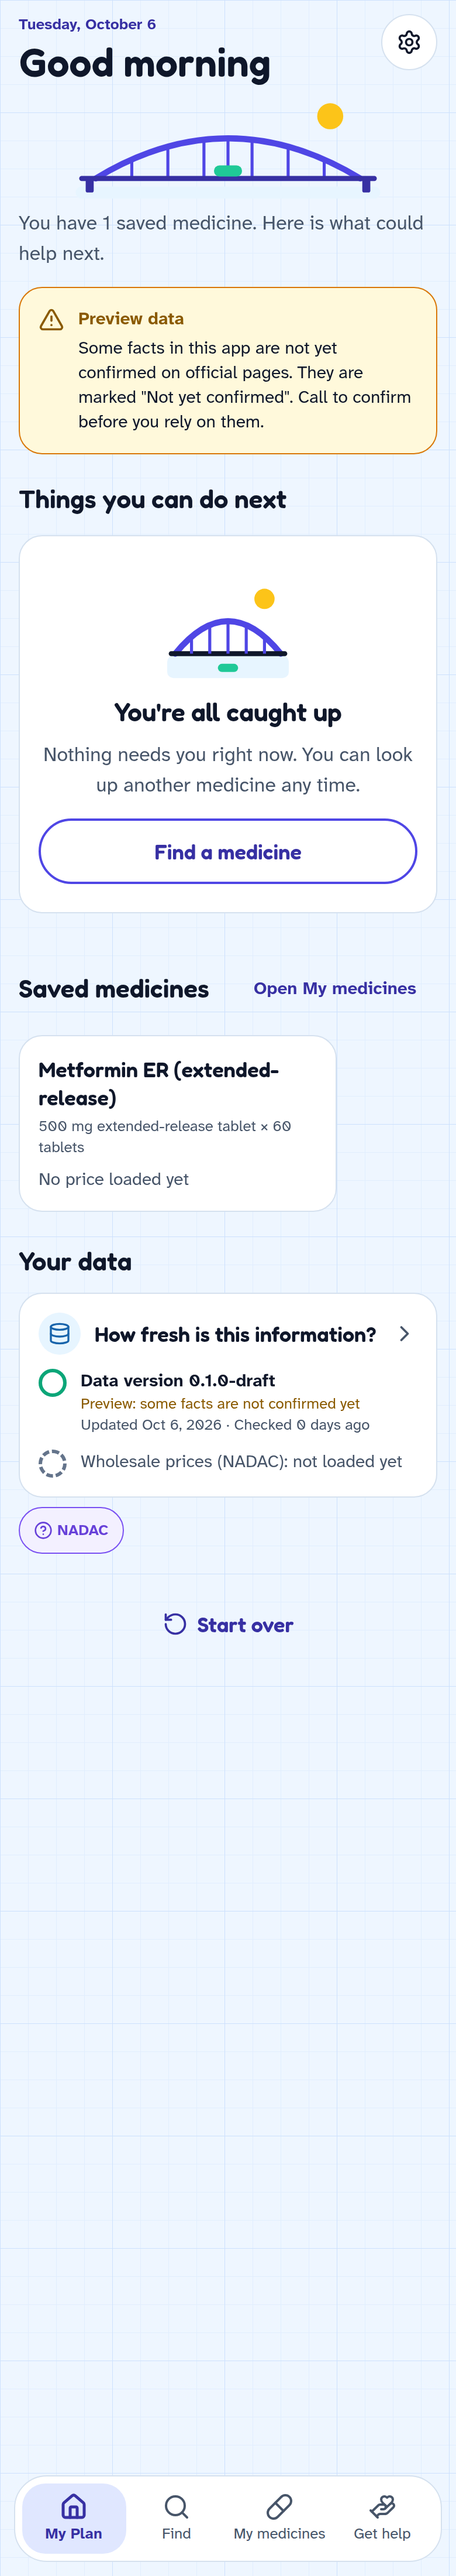
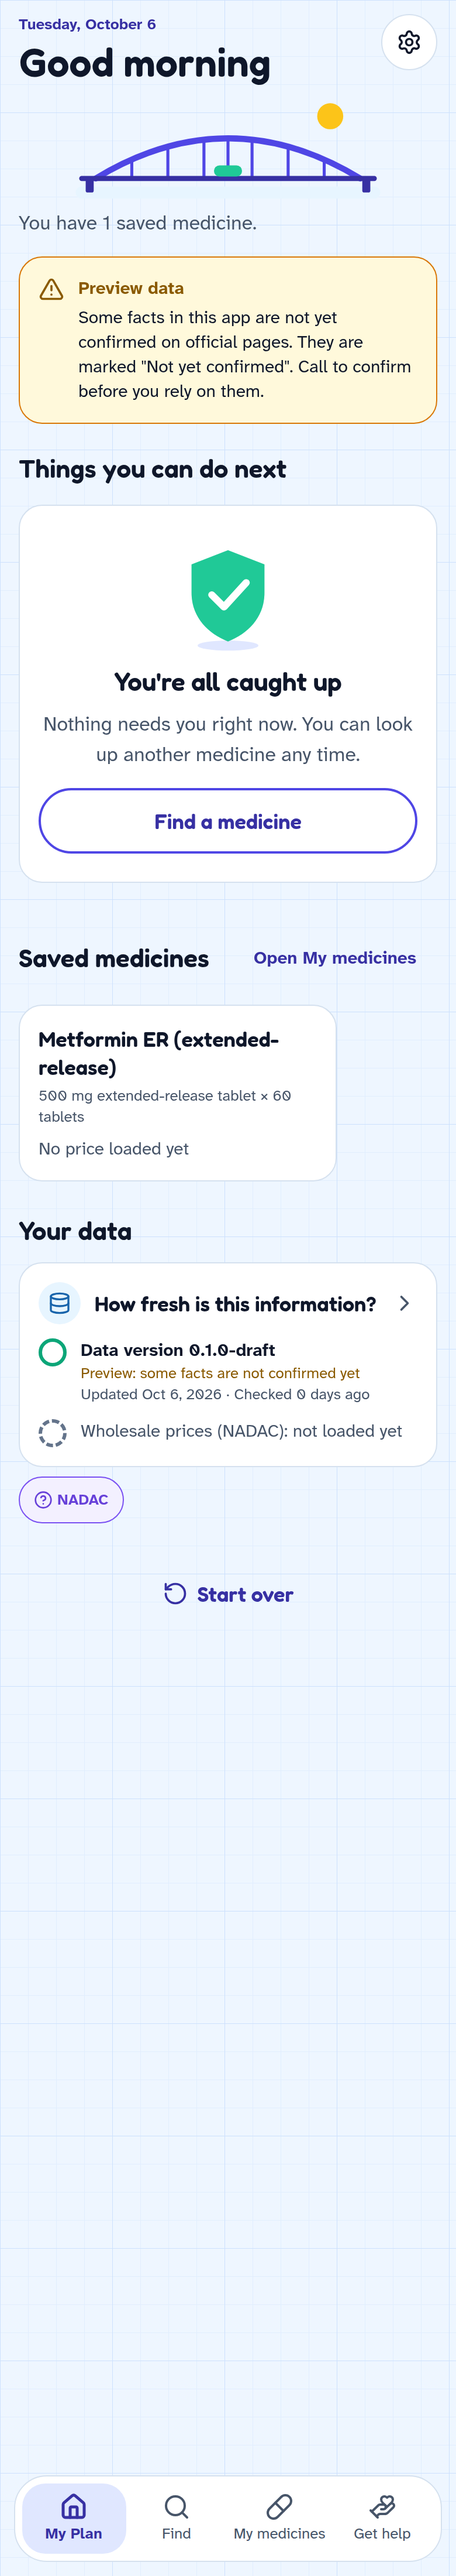
Programs area complete; Jest mocks; full-page screenshots; early renewal reminder
- Help paying tab, program detail, call coach, application tracker (+18 tests)
- Global Jest mocks for Reanimated 4/worklets, lucide CJS mapping
- shoot.mjs grows the viewport for full-page captures of scroll views
- Renewal reminders fire a month before the renew-by date

Claude-Session: https://claude.ai/code/session_01EGLpWfRMwueDTRC4zSzDUC

Changed region(s): [[0.0308, 0.0934, 0.9538, 0.5916], [0.4308, 0.5916, 0.4923, 0.6539], [0.6769, 0.3425, 0.7077, 0.4048]]

diff --git a/src/app/onboarding/result.tsx b/src/app/onboarding/result.tsx
@@ -54,21 +54,26 @@ export default function ResultScreen() {
   const incomeKnown = income?.kind === 'bracket' || income?.kind === 'exact';
   // Without an income answer, only rules that don't depend on income can be estimated.
   const visible = results.filter((r) => r.tier !== 'notLikely' && (incomeKnown || !ruleUsesIncome(r.rule)));
+  // Programs that may help, vs. "standard" options (e.g. Covered California plans without federal help).
+  const helpful = visible.filter((r) => r.rule.programKey !== 'standard');
   const size = profile.householdSize;
   const exactAnnual = income?.kind === 'exact' ? income.annual : null;
   // Rules missed only because an exact income is a little over the limit: "Some income may not count."
   const justOver = results.filter((r) => isJustOverLimit(r, getPack().fpl, size, exactAnnual));
+  const noneHelp = incomeKnown && helpful.length === 0;
+  // Standard options: the ones that apply, or (when nothing else fits) every standard rule in the pack.
+  const standardShown = visible.filter((r) => r.rule.programKey === 'standard');
   const standard =
-    incomeKnown && visible.length === 0
+    noneHelp && standardShown.length === 0
       ? results.filter((r) => r.rule.programKey === 'standard' && !justOver.includes(r))
-      : [];
+      : standardShown;
   // Celebrate only when something may help; otherwise stay calm.
-  const celebrate = visible.length > 0;
+  const celebrate = helpful.length > 0;
 
   useEffect(() => {
     if (celebrate) haptic.success();
     AccessibilityInfo.announceForAccessibility(
-      visible.length > 0 ? t('result.announce', { count: visible.length }) : t('result.announceNone'),
+      helpful.length > 0 ? t('result.announce', { count: helpful.length }) : t('result.announceNone'),
     );
     // Announce once, when the result first appears.
     // eslint-disable-next-line react-hooks/exhaustive-deps
@@ -118,8 +123,8 @@ export default function ResultScreen() {
     return out;
   }, [screener.coverage, screener.county, size, income, pcts, lang, t]);
 
-  const title = visible.length > 0 ? t('result.title') : t('result.titleNone');
-  const countText = visible.length > 0 ? t('result.count', { count: visible.length }) : null;
+  const title = helpful.length > 0 ? t('result.title') : t('result.titleNone');
+  const countText = helpful.length > 0 ? t('result.count', { count: helpful.length }) : null;
 
   return (
     <Screen
@@ -232,7 +237,7 @@ export default function ResultScreen() {
         </Animated.View>
       ) : null}
 
-      {visible.map((r, i) => (
+      {helpful.map((r, i) => (
         <Animated.View
           key={r.rule.id}
           entering={
@@ -247,6 +252,24 @@ export default function ResultScreen() {
           <Notices programKey={r.rule.programKey} />
         </Animated.View>
       ))}
+
+      {noneHelp ? (
+        <Animated.View
+          entering={
+            reduceMotion
+              ? undefined
+              : FadeInDown.delay(motion.slow + 280)
+                  .duration(motion.slow)
+                  .easing(ease)
+          }>
+          <EmptyState
+            illustration="bridge"
+            title={t('result.standardTitle')}
+            body={t('result.standardBody')}
+            testID="result-standard"
+          />
+        </Animated.View>
+      ) : null}
 
       {justOver.map((r) => (
         <Animated.View
@@ -264,27 +287,21 @@ export default function ResultScreen() {
         </Animated.View>
       ))}
 
-      {incomeKnown && visible.length === 0 ? (
+      {standard.map((r) => (
         <Animated.View
+          key={r.rule.id}
           entering={
             reduceMotion
               ? undefined
-              : FadeInDown.delay(motion.slow + 280)
+              : FadeInDown.delay(motion.slow + 340)
                   .duration(motion.slow)
                   .easing(ease)
           }
           style={styles.group}>
-          <EmptyState
-            illustration="bridge"
-            title={t('result.standardTitle')}
-            body={t('result.standardBody')}
-            testID="result-standard"
-          />
-          {standard.map((r) => (
-            <ResultCard key={r.rule.id} result={r} householdSize={size} showTier={false} />
-          ))}
+          <ResultCard result={r} householdSize={size} showTier={r.tier !== 'notLikely'} />
+          <Notices programKey={r.rule.programKey} />
         </Animated.View>
-      ) : null}
+      ))}
 
       <Button
         variant="ghost"

diff --git a/src/components/results/BuyNowCard.tsx b/src/components/results/BuyNowCard.tsx
@@ -110,18 +110,13 @@ export function BuyNowCard({ option, strength, perDay, formula, versions }: Prop
       )}
 
       <View style={styles.priceRow}>
-        <View style={styles.priceBlock}>
+        <View>
           {option.priceKind === 'maximum' ? (
             <Text variant="label" bold tone="mint">
               {t('buyNow.upTo')}
             </Text>
           ) : null}
           <Odometer text={price} variant="price" testID={`buy-now-price-${option.id}`} />
-          {pkg ? (
-            <Text variant="subheading" tone="muted">
-              {pkg}
-            </Text>
-          ) : null}
         </View>
         <Button
           variant="ghost"
@@ -133,6 +128,11 @@ export function BuyNowCard({ option, strength, perDay, formula, versions }: Prop
           style={[styles.mathButton, { backgroundColor: palette.surface, borderColor: mint.solid }]}
         />
       </View>
+      {pkg ? (
+        <Text variant="subheading" tone="muted">
+          {pkg}
+        </Text>
+      ) : null}
 
       {option.priceKind === 'maximum' ? (
         <View style={styles.noteRow}>
@@ -221,11 +221,10 @@ const styles = StyleSheet.create({
   card: { gap: spacing.sm },
   labelRow: { flexDirection: 'row', alignItems: 'center', gap: spacing.xs },
   flex: { flex: 1 },
-  priceBlock: { alignSelf: 'flex-start', gap: 2 },
   product: { gap: 2 },
   noteRow: { flexDirection: 'row', alignItems: 'flex-start', gap: spacing.xs },
   formula: { gap: spacing.xs, borderLeftWidth: 3, paddingLeft: spacing.sm },
-  priceRow: { flexDirection: 'row', flexWrap: 'wrap', alignItems: 'flex-end', justifyContent: 'space-between', gap: spacing.xs },
+  priceRow: { flexDirection: 'row', flexWrap: 'wrap', alignItems: 'center', justifyContent: 'space-between', gap: spacing.xs },
   mathButton: { alignSelf: 'flex-start', paddingHorizontal: spacing.sm, borderWidth: 1.5 },
   open: { alignSelf: 'stretch' },
   mathBox: { gap: spacing.xs, padding: spacing.md, borderRadius: 16, borderWidth: 1 },

diff --git a/src/app/(tabs)/find.tsx b/src/app/(tabs)/find.tsx
@@ -63,9 +63,11 @@ export default function FindScreen() {
 
       {typing ? (
         <View style={styles.list}>
-          <Text variant="label" tone="muted" accessibilityLiveRegion="polite" testID="results-count">
-            {t('resultsCount', { count: results.length })}
-          </Text>
+          {results.length > 0 ? (
+            <Text variant="label" tone="muted" accessibilityLiveRegion="polite" testID="results-count">
+              {t('resultsCount', { count: results.length })}
+            </Text>
+          ) : null}
           {results.map((r, i) => (
             <Animated.View key={r.medication.id} entering={enter(i)}>
               <MedicationRow
@@ -87,6 +89,7 @@ export default function FindScreen() {
                   requestUrl ? (
                     <Button
                       variant="secondary"
+                      compact
                       icon={MessageSquarePlus}
                       external
                       label={t('empty.request')}

diff --git a/src/components/programs/ApplicationCard.tsx b/src/components/programs/ApplicationCard.tsx
@@ -336,12 +336,15 @@ function RenewSection({ program, application }: { program: Program; application:
       return;
     }
     const { title, body } = texts();
-    const reminderId = await scheduleDateReminder(title, body, date);
+    // Remind a month ahead (time to gather papers) when that's still in the future.
+    const monthBefore = addMonthsISO(date, -1);
+    const remindOn = monthBefore > today ? monthBefore : date;
+    const reminderId = await scheduleDateReminder(title, body, remindOn);
     if (reminderId) {
       if (application.reminderId) void cancelReminder(application.reminderId);
       update(id, { renewBy: date, reminderId });
       haptic.success();
-      showToast(t('tracker.reminderSaved', { date: formatDate(date, lang, 'long') }), 'success');
+      showToast(t('tracker.reminderSaved', { date: formatDate(remindOn, lang, 'long') }), 'success');
     } else {
       showToast(IS_WEB ? t('tracker.webNote') : t('tracker.reminderFailed'), 'caution');
     }

diff --git a/src/components/onboarding/PeopleRow.tsx b/src/components/onboarding/PeopleRow.tsx
@@ -65,7 +65,7 @@ export function PeopleRow({ count }: { count: number }) {
 
 function Person({ color, head }: { color: string; head: string }) {
   return (
-    <Svg width={30} height={44} viewBox="0 0 30 44">
+    <Svg width={32} height={47} viewBox="0 0 30 44">
       <Circle cx={15} cy={10} r={8} fill={color} />
       <Circle cx={12.5} cy={8.5} r={2.2} fill={head} opacity={0.35} />
       <Path d="M3 42 V33 a12 12 0 0 1 24 0 V42 Z" fill={color} />
@@ -80,7 +80,7 @@ const styles = StyleSheet.create({
     justifyContent: 'center',
     alignItems: 'flex-end',
     gap: 6,
-    minHeight: 52,
+    minHeight: 56,
     paddingVertical: spacing.xxs,
   },
   extra: {

diff --git a/jest.config.js b/jest.config.js
@@ -8,6 +8,8 @@ module.exports = {
     'node_modules/(?!((jest-)?react-native|@react-native(-community)?|expo(nent)?|@expo(nent)?/.*|@expo-google-fonts/.*|react-navigation|@react-navigation/.*|@unimodules/.*|unimodules|sentry-expo|native-base|react-native-svg|lucide-react-native|@shopify/.*|zustand|i18next|react-i18next))',
   ],
   moduleNameMapper: {
+    // lucide-react-native's "react-native" export is ESM (.mjs); use its CommonJS build under Jest.
+    '^lucide-react-native$': '<rootDir>/node_modules/lucide-react-native/dist/cjs/lucide-react-native.js',
     '^@/(.*)$': '<rootDir>/src/$1',
     '^@data/(.*)$': '<rootDir>/data/$1',
   },

diff --git a/jest.setup.js b/jest.setup.js
@@ -1,4 +1,8 @@
 /* global jest */
+/* eslint-disable @typescript-eslint/no-require-imports -- jest.mock factories must require */
 jest.mock('@react-native-async-storage/async-storage', () =>
   require('@react-native-async-storage/async-storage/jest/async-storage-mock'),
 );
+// Reanimated 4 + worklets ship their own mocks.
+jest.mock('react-native-worklets', () => require('react-native-worklets/src/mock'));
+jest.mock('react-native-reanimated', () => require('react-native-reanimated/mock'));

diff --git a/src/app/share.tsx b/src/app/share.tsx
@@ -102,7 +102,7 @@ export default function ShareScreen() {
       }>
       <View style={styles.head}>
         <Text variant="title">{t('share.title')}</Text>
-        <Text tone="muted">{t('share.subtitle')}</Text>
+        <Text tone="muted">{langs.length > 1 ? t('share.subtitle') : t('share.subtitleOne')}</Text>
       </View>
 
       <Card style={styles.switchRow}>

diff --git a/src/app/counter-card.tsx b/src/app/counter-card.tsx
@@ -149,6 +149,11 @@ export default function CounterCardScreen() {
           />
         ) : null}
       </View>
+      <View style={styles.inner}>
+        <Text variant="subheading" style={{ color: hc.textMuted }}>
+          {t('counter.title')}
+        </Text>
+      </View>
 
       <ScrollView
         ref={scroller}
